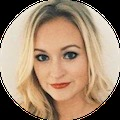
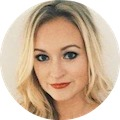
Try again with flattened jpg

Changed region(s): [[0.0, 0.0, 1.0, 0.425], [0.55, 0.575, 1.0, 1.0], [0.0, 0.575, 0.475, 1.0]]

diff --git a/index.html b/index.html
@@ -452,7 +452,7 @@ ul.iconlist li:before
       <h2 class="center"> Holler at my fans </h2>
       <div>
 	<div class="testimonial">
-	  <img src="ritika.png">
+	  <img src="ritika.jpg">
 	  <p class="pull-quote">
 	    <span class="mega-octicon
 			 octicon-quote"></span> Emma is a content mastermind. She is a
@@ -464,7 +464,7 @@ ul.iconlist li:before
 	  </p>
 	</div>
 	<div class="testimonial">
-	  <img src="kaleighmoore.png">
+	  <img src="kaleighmoore.jpg">
 	  <p class="pull-quote"><span class="mega-octicon
 					     octicon-quote"></span>
 	    Emma has a fresh perspective. She knows how to create content people really want to read and share,
@@ -472,7 +472,7 @@ ul.iconlist li:before
 	  <p class="pull-quote">--Kaleigh Moore, Founder of Lumen</p>
 	</div>
 	<div class="testimonial">
-	  <img src="mattkoulas.png">
+	  <img src="mattkoulas.jpg">
 	  <p class="pull-quote"><span class="mega-octicon
 					     octicon-quote"></span>
 	    Emma was amazing to work with in every aspect. Highlights from her time at Grasshopper include
